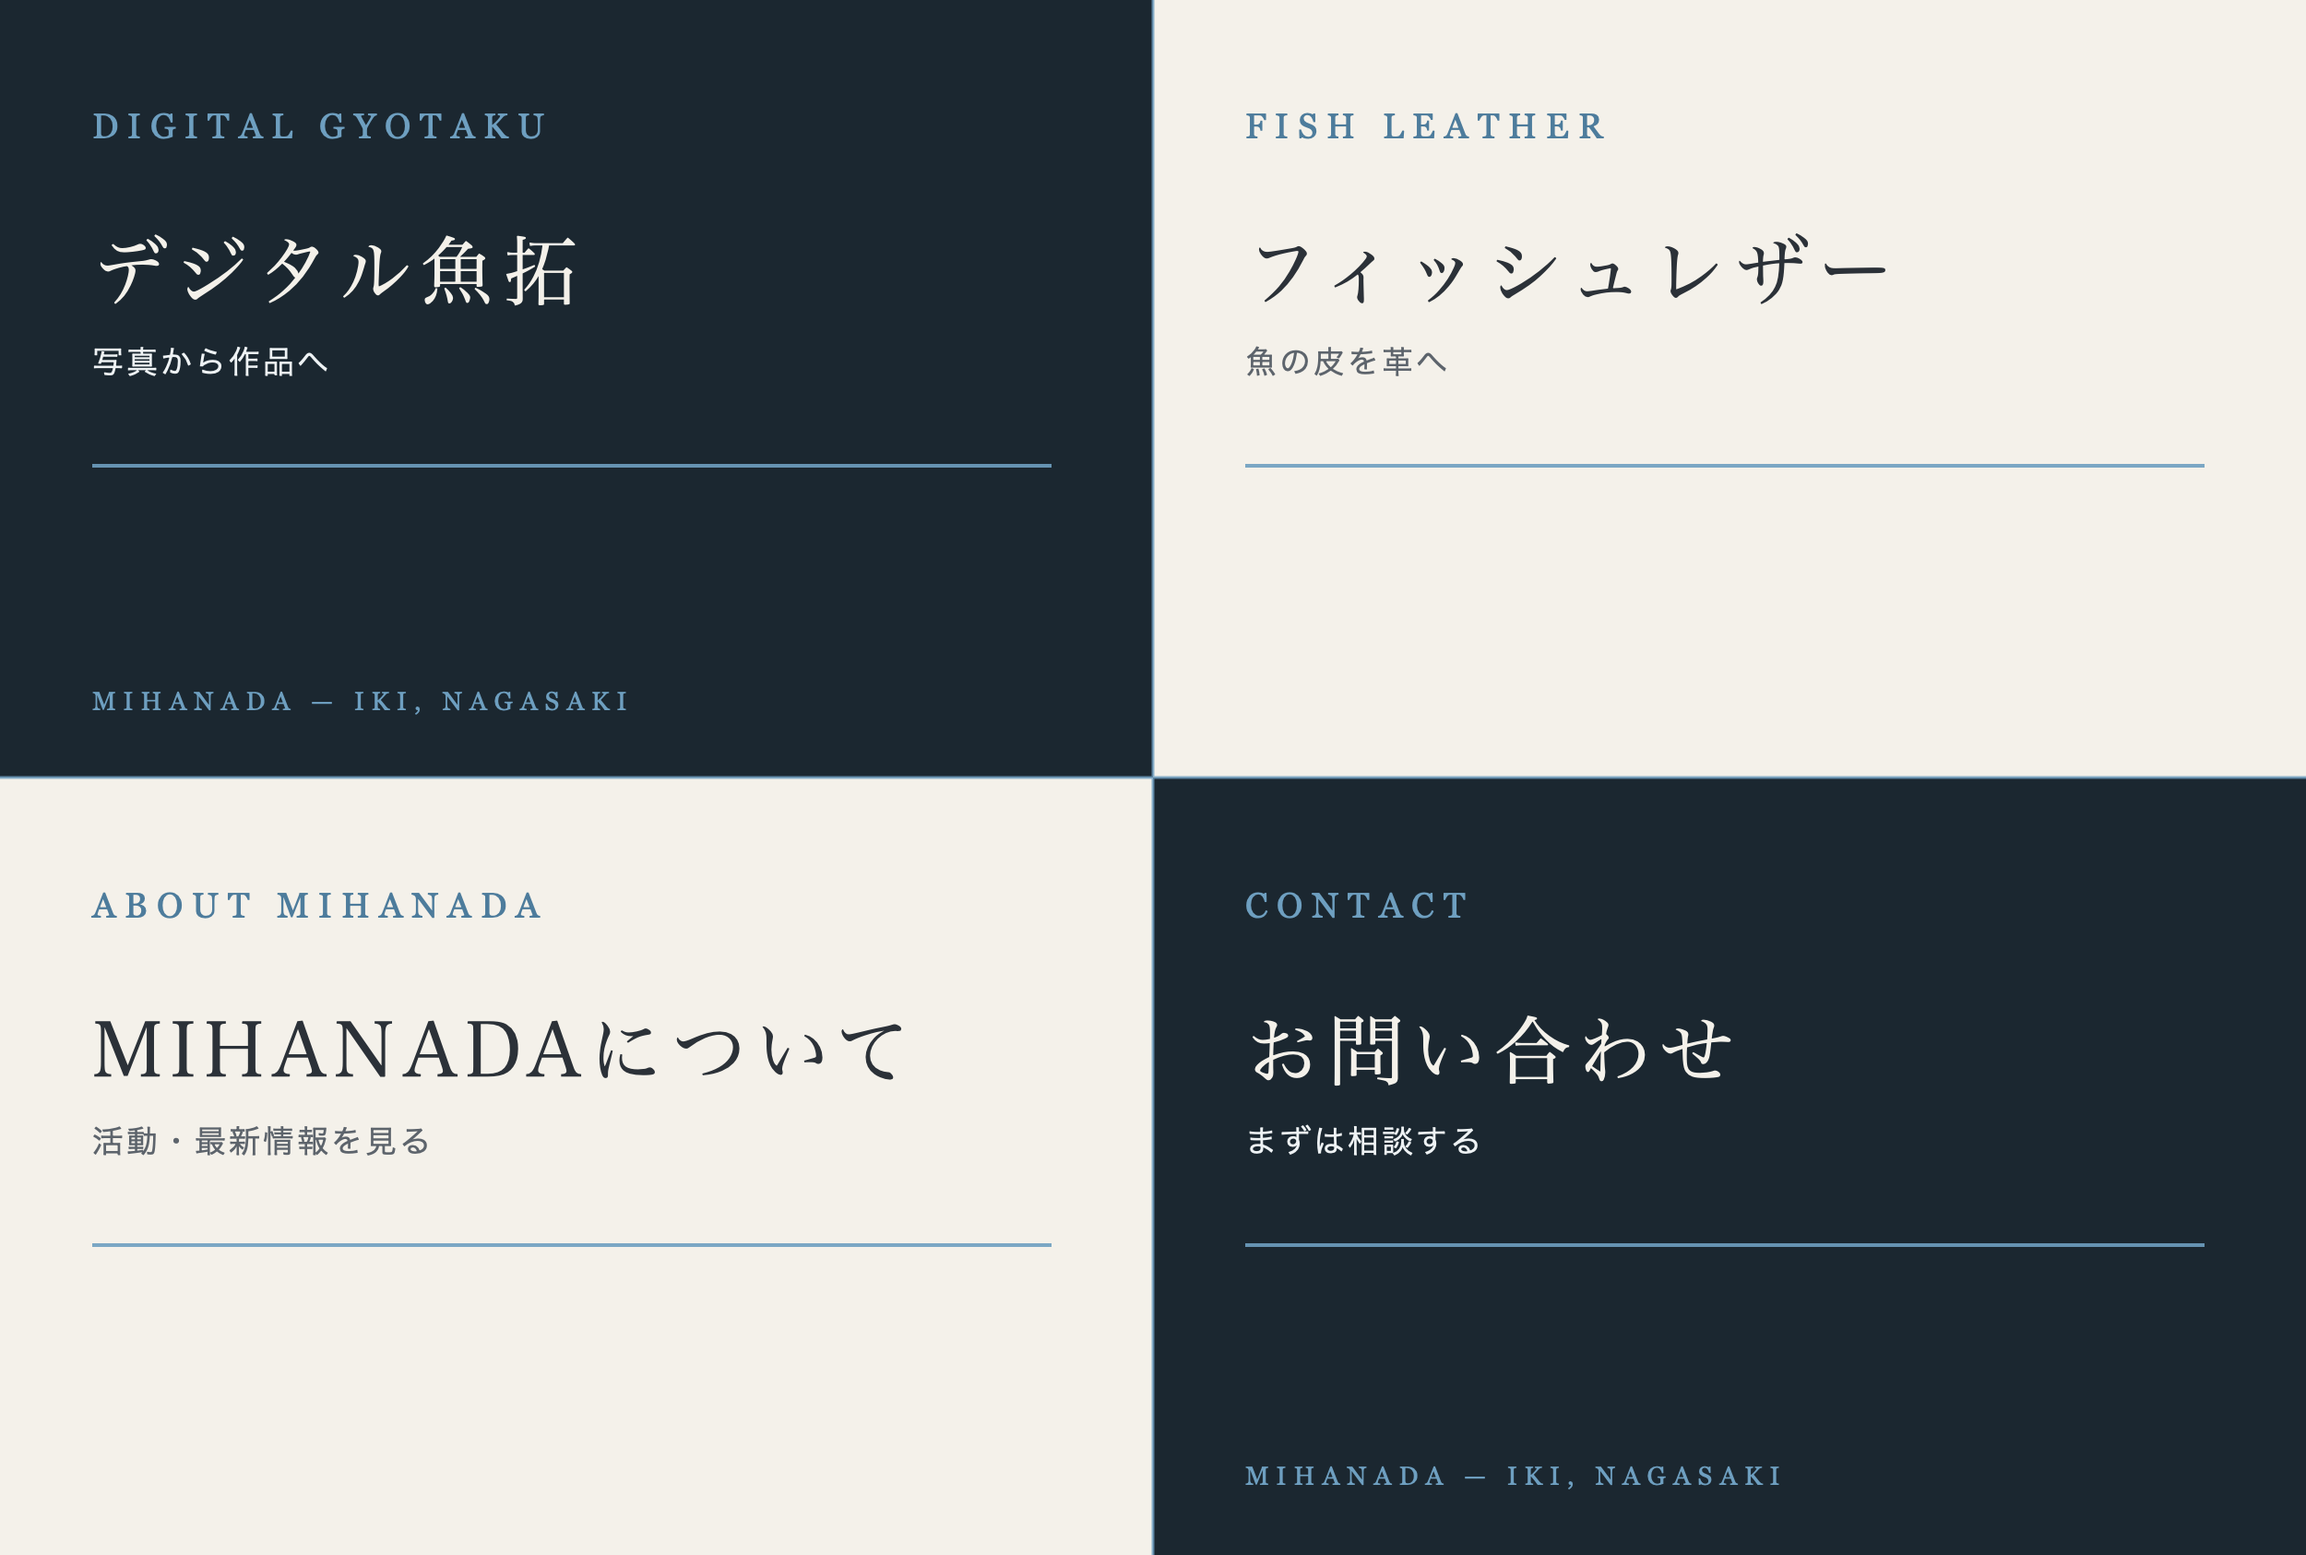
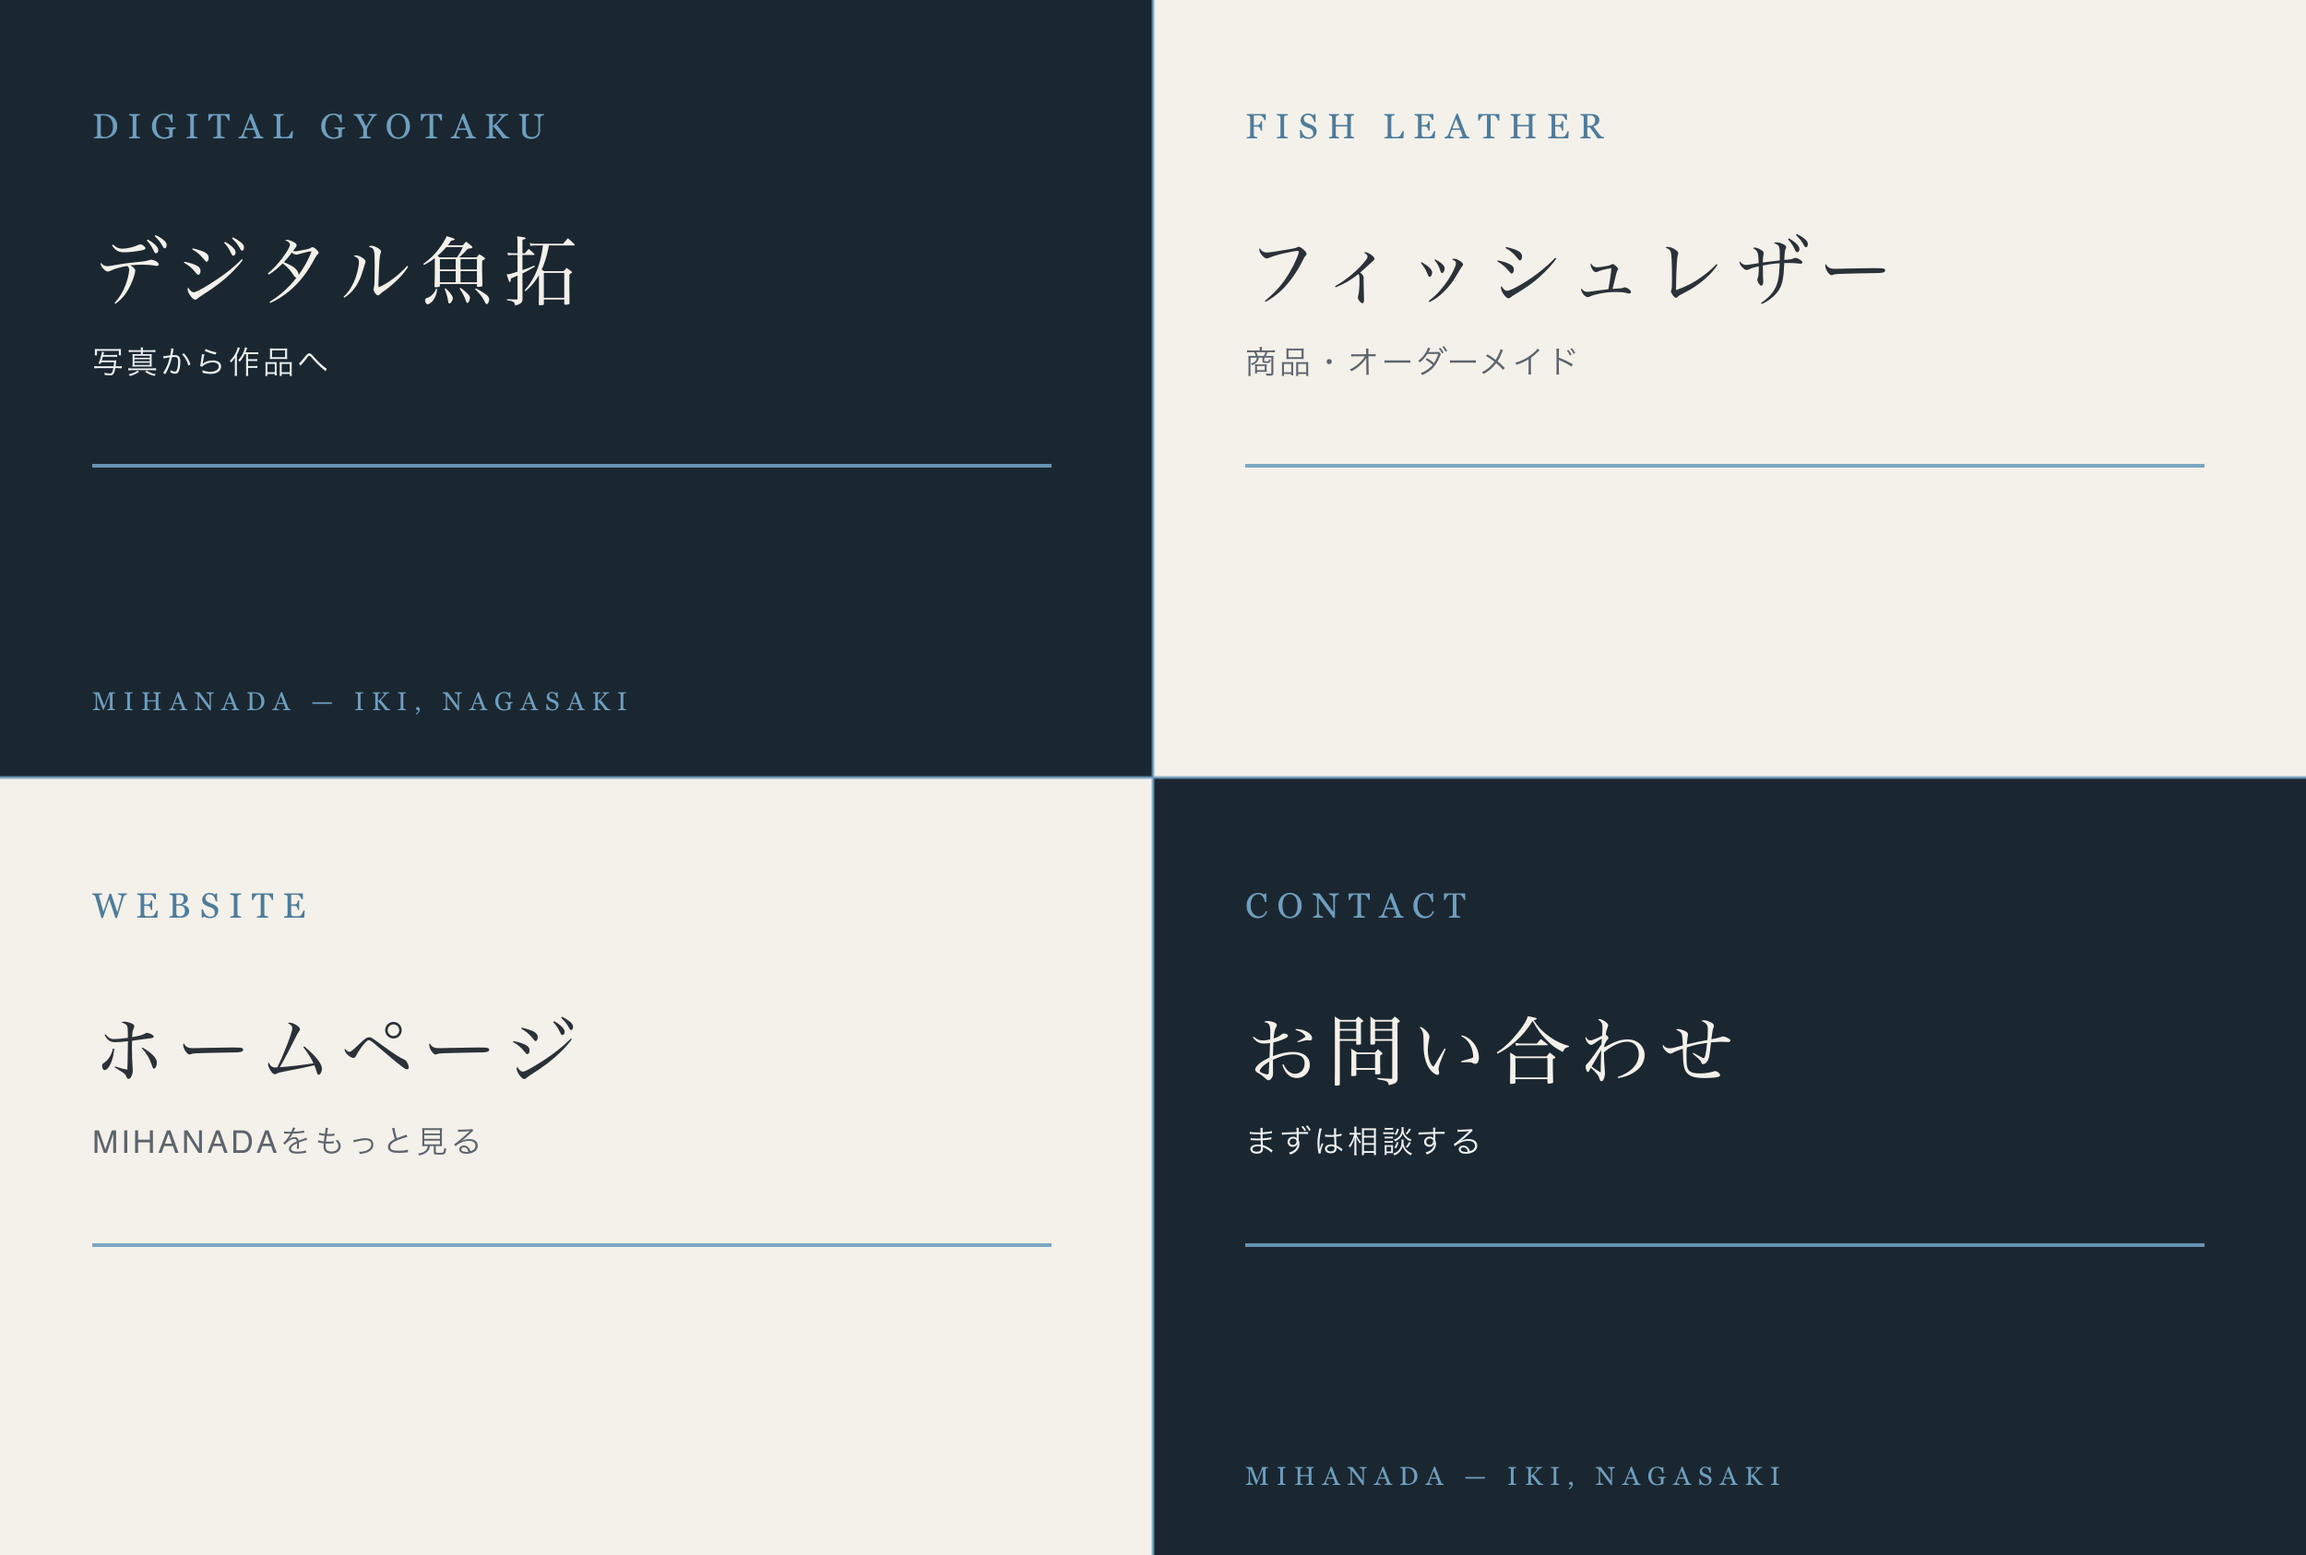
Refine LINE rich menu flows

diff --git a/lib/line.ts b/lib/line.ts
@@ -111,12 +111,11 @@ export function digitalGyotakuFlex(): FlexMessage {
   return serviceFlex({
     eyebrow: "DIGITAL GYOTAKU",
     title: "写真から、魚拓作品へ。",
-    body: "釣果の写真をもとに、一匹の記憶を作品として残します。制作の流れや作品例をご覧いただけます。",
+    body: "釣果の写真をもとに、一匹の記憶を作品として残します。つくり方・写真の撮り方・料金の目安はホームページでご覧いただけます。",
     image: "/images/service-gyotaku.jpg",
     altText: "デジタル魚拓のご案内",
     actions: [
-      button(postback("制作の流れを見る", "gyotaku_flow")),
-      button(uri("作品例を見る", "/digital-gyotaku")),
+      button(uri("料金・つくり方を見る", "/digital-gyotaku")),
       button(message("写真を送って相談する", "デジタル魚拓を相談したい"), true),
     ],
   });
@@ -125,14 +124,14 @@ export function digitalGyotakuFlex(): FlexMessage {
 export function fishLeatherFlex(): FlexMessage {
   return serviceFlex({
     eyebrow: "FISH LEATHER",
-    title: "魚の皮を、革に。",
-    body: "壱岐の海の魚の皮を、一枚ずつなめして革製品に仕立てます。商品とオーダー制作をご案内します。",
+    title: "商品と、オーダーメイド。",
+    body: "既存のフィッシュレザー製品のご案内と、釣った魚の皮から一点ものを仕立てるオーダーメイドを承ります。",
     image: "/images/fish-leather/hero.jpg",
     altText: "フィッシュレザーのご案内",
     actions: [
-      button(uri("商品を見る", "/fish-leather")),
-      button(postback("オーダーについて", "leather_order")),
-      button(message("相談する", "フィッシュレザーを相談したい"), true),
+      button(message("商品について問い合わせる", "フィッシュレザーの商品について問い合わせたい")),
+      button(message("オーダーメイドを相談する", "フィッシュレザーのオーダーメイドを相談したい"), true),
+      button(uri("ホームページを見る", "/fish-leather")),
     ],
   });
 }
@@ -160,7 +159,8 @@ export function contactFlex(): FlexMessage {
     altText: "お問い合わせのご案内",
     actions: [
       button(message("デジタル魚拓", "デジタル魚拓を相談したい")),
-      button(message("フィッシュレザー", "フィッシュレザーを相談したい")),
+      button(message("フィッシュレザーの商品", "フィッシュレザーの商品について問い合わせたい")),
+      button(message("フィッシュレザーのオーダー", "フィッシュレザーのオーダーメイドを相談したい")),
       button(message("その他", "その他の相談をしたい"), true),
     ],
   });
@@ -201,10 +201,16 @@ export function consultationReply(text: string) {
       text: "デジタル魚拓のご相談ですね。\n\n魚全体が分かる写真を、このトークにお送りください。仕上がりのご希望があれば、あわせてお知らせください。\n\n内容を確認して、制作可否や進め方をご案内します。",
     };
   }
-  if (text === "フィッシュレザーを相談したい") {
+  if (text === "フィッシュレザーの商品について問い合わせたい") {
     return {
       type: "text",
-      text: "フィッシュレザーのご相談ですね。\n\n魚種・サイズと、皮全体が分かる写真をお送りください。皮の保存方法や、仕立てられる製品についてご案内します。",
+      text: "フィッシュレザーの商品についてのお問い合わせですね。\n\n気になっている商品名や、色・在庫・お受け取り方法など、知りたいことをこのトークにお送りください。確認してご案内します。",
+    };
+  }
+  if (text === "フィッシュレザーのオーダーメイドを相談したい") {
+    return {
+      type: "text",
+      text: "フィッシュレザーのオーダーメイドをご検討ですね。\n\n分かる範囲で、魚種・サイズ・魚をお持ちかどうか・作りたいものをお送りください。魚の皮全体が分かる写真もあわせていただけると、進め方をご案内しやすくなります。",
     };
   }
   return {

diff --git a/app/api/line/webhook/route.ts b/app/api/line/webhook/route.ts
@@ -15,6 +15,12 @@ type LineEvent = {
   postback?: { data?: string };
 };
 
+const richMenuMessages: Record<string, string> = {
+  "デジタル魚拓について知りたい": "gyotaku",
+  "フィッシュレザーについて知りたい": "fish_leather",
+  "お問い合わせをしたい": "contact",
+};
+
 function getPostbackAction(data?: string) {
   if (!data) return undefined;
   return new URLSearchParams(data).get("action") ?? undefined;
@@ -42,9 +48,16 @@ export async function POST(request: Request) {
 
       if (event.type === "message" && event.message?.type === "text" && event.message.text) {
         const text = event.message.text;
+        const richMenuAction = richMenuMessages[text];
+        if (richMenuAction) {
+          const response = menuResponse(richMenuAction);
+          if (response) await replyLine(event.replyToken, [response]);
+          return;
+        }
         if (
           text === "デジタル魚拓を相談したい" ||
-          text === "フィッシュレザーを相談したい" ||
+          text === "フィッシュレザーの商品について問い合わせたい" ||
+          text === "フィッシュレザーのオーダーメイドを相談したい" ||
           text === "その他の相談をしたい"
         ) {
           await replyLine(event.replyToken, [consultationReply(text)]);

diff --git a/scripts/setup-line-rich-menu.ts b/scripts/setup-line-rich-menu.ts
@@ -23,10 +23,10 @@ const menu = {
   name: "MIHANADA 基本メニュー",
   chatBarText: "MIHANADA メニュー",
   areas: [
-    { bounds: { x: 0, y: 0, width: 1250, height: 843 }, action: { type: "postback", data: "action=gyotaku" } },
-    { bounds: { x: 1250, y: 0, width: 1250, height: 843 }, action: { type: "postback", data: "action=fish_leather" } },
-    { bounds: { x: 0, y: 843, width: 1250, height: 843 }, action: { type: "postback", data: "action=about" } },
-    { bounds: { x: 1250, y: 843, width: 1250, height: 843 }, action: { type: "postback", data: "action=contact" } },
+    { bounds: { x: 0, y: 0, width: 1250, height: 843 }, action: { type: "message", text: "デジタル魚拓について知りたい" } },
+    { bounds: { x: 1250, y: 0, width: 1250, height: 843 }, action: { type: "message", text: "フィッシュレザーについて知りたい" } },
+    { bounds: { x: 0, y: 843, width: 1250, height: 843 }, action: { type: "uri", uri: "https://www.mihanada.site/" } },
+    { bounds: { x: 1250, y: 843, width: 1250, height: 843 }, action: { type: "message", text: "お問い合わせをしたい" } },
   ],
 };
 
